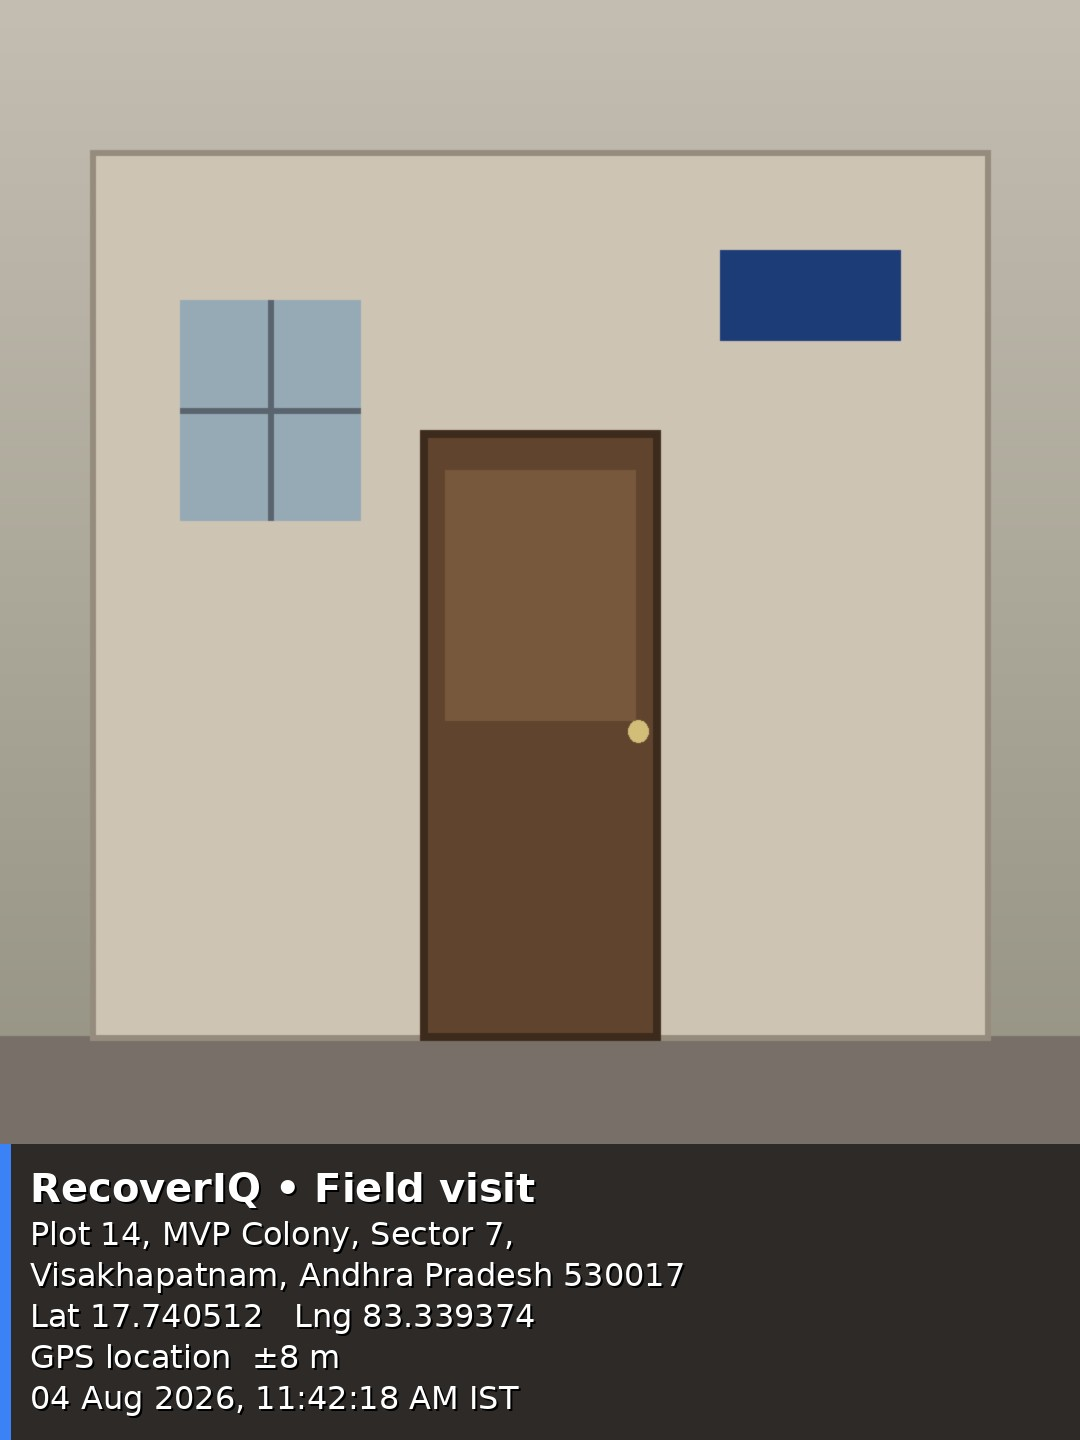
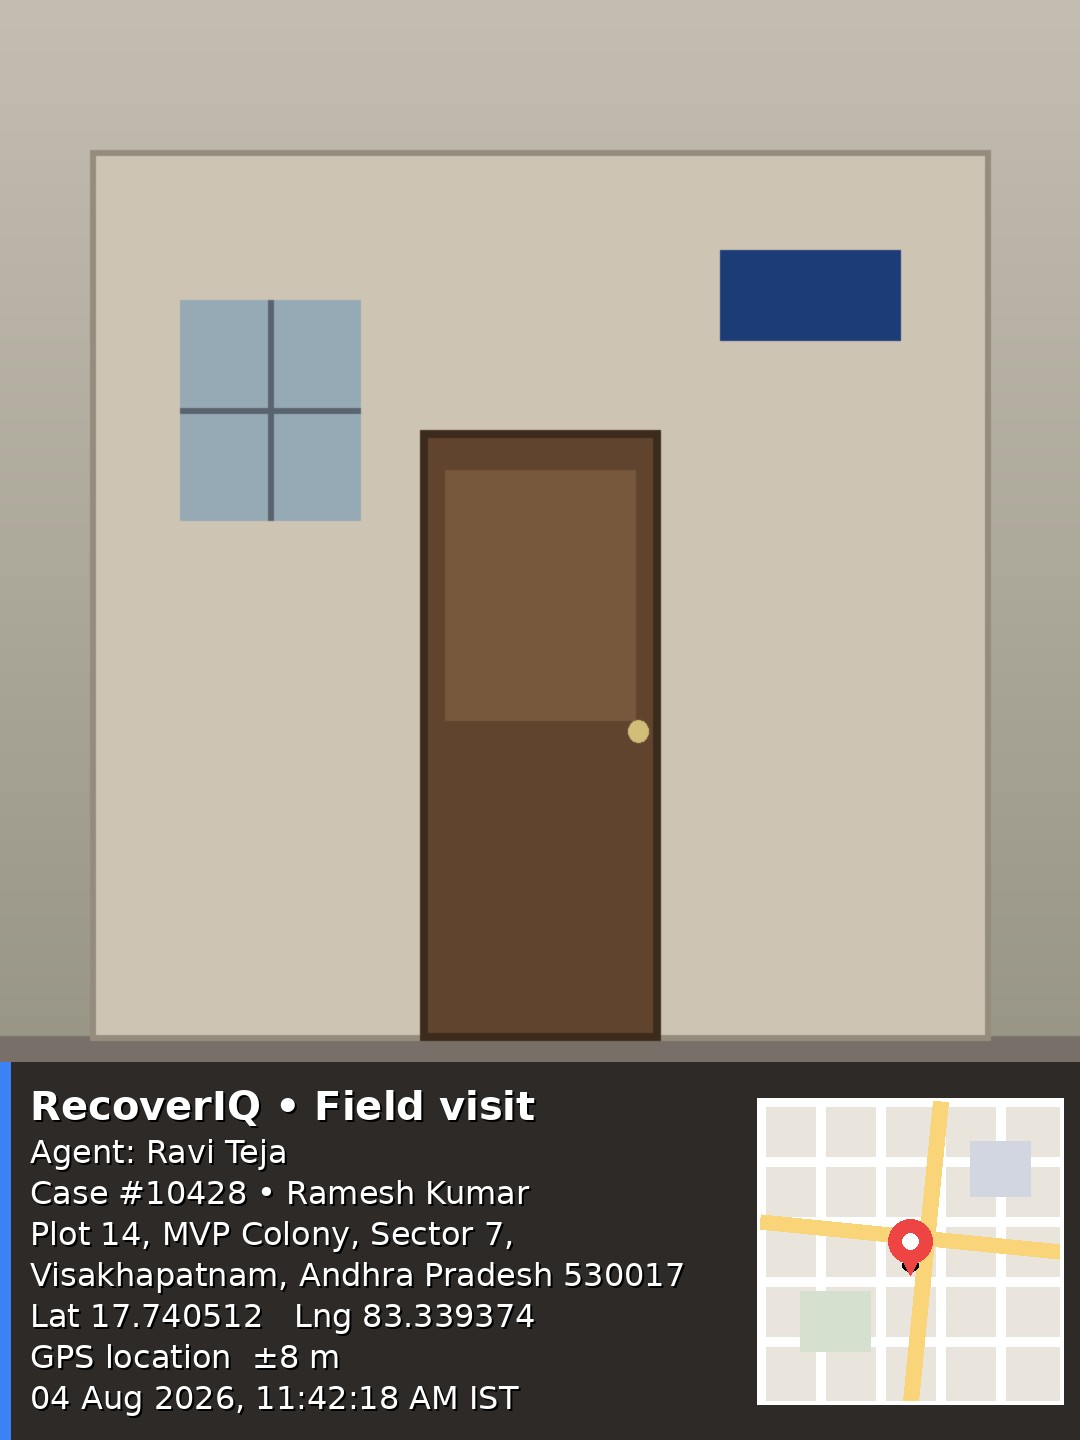
gps map cam

Changed region(s): [[0.0, 0.7188, 1.0, 1.0]]

diff --git a/android-native/app/src/main/java/in/recoveriq/app/ui/detail/VisitDialog.kt b/android-native/app/src/main/java/in/recoveriq/app/ui/detail/VisitDialog.kt
@@ -52,12 +52,15 @@ import `in`.recoveriq.app.ui.theme.Muted
 import kotlinx.coroutines.Dispatchers
 import kotlinx.coroutines.launch
 import kotlinx.coroutines.withContext
+import okhttp3.OkHttpClient
+import okhttp3.Request
 import java.io.ByteArrayOutputStream
 import java.io.File
 import java.text.SimpleDateFormat
 import java.util.Date
 import java.util.Locale
 import java.util.TimeZone
+import java.util.concurrent.TimeUnit
 
 /** Result payload the caller uploads via Repository.createVisit(...). */
 data class VisitDraft(
@@ -84,6 +87,38 @@ private fun decodeSampled(file: File, maxPx: Int): Bitmap? {
     val opts = BitmapFactory.Options().apply { inSampleSize = sample }
     return BitmapFactory.decodeFile(file.absolutePath, opts)
 }
+
+/**
+ * Fetch a small OpenStreetMap tile centred on the fix and drop a red pin at the exact
+ * position — this is the little map thumbnail the GPS Map Camera app shows.
+ */
+private fun fetchMapThumb(lat: Double, lng: Double): Bitmap? = runCatching {
+    val z = 16
+    val n = Math.pow(2.0, z.toDouble())
+    val xf = (lng + 180.0) / 360.0 * n
+    val latRad = Math.toRadians(lat)
+    val yf = (1.0 - Math.log(Math.tan(latRad) + 1.0 / Math.cos(latRad)) / Math.PI) / 2.0 * n
+    val xt = Math.floor(xf).toInt()
+    val yt = Math.floor(yf).toInt()
+    val url = "https://tile.openstreetmap.org/$z/$xt/$yt.png"
+    val client = OkHttpClient.Builder().callTimeout(6, TimeUnit.SECONDS).build()
+    val req = Request.Builder().url(url)
+        .header("User-Agent", "RecoverIQ-Android/1.0 (field-visit geotag)").build()
+    client.newCall(req).execute().use { resp ->
+        if (!resp.isSuccessful) return@runCatching null
+        val bytes = resp.body?.bytes() ?: return@runCatching null
+        val tile = BitmapFactory.decodeByteArray(bytes, 0, bytes.size) ?: return@runCatching null
+        val out = tile.copy(Bitmap.Config.ARGB_8888, true)
+        val cv = Canvas(out)
+        val px = ((xf - xt) * out.width).toFloat()
+        val py = ((yf - yt) * out.height).toFloat()
+        val r = out.width * 0.07f
+        cv.drawCircle(px, py + r, r, Paint(Paint.ANTI_ALIAS_FLAG).apply { color = Color.argb(70, 0, 0, 0) }) // shadow
+        cv.drawCircle(px, py, r, Paint(Paint.ANTI_ALIAS_FLAG).apply { color = Color.parseColor("#EF4444") })
+        cv.drawCircle(px, py, r * 0.38f, Paint(Paint.ANTI_ALIAS_FLAG).apply { color = Color.WHITE })
+        out
+    }
+}.getOrNull()
 
 /** Cameras often store the photo sideways with an EXIF rotation flag — apply it. */
 private fun applyExifRotation(file: File, bmp: Bitmap): Bitmap {
@@ -132,7 +167,10 @@ private fun wrap(paint: Paint, text: String, maxWidth: Float, maxLines: Int): Li
 }
 
 /** Draw the translucent geo-stamp banner across the bottom of the photo. */
-private fun stampPhoto(src: Bitmap, lat: Double?, lng: Double?, acc: Double?, address: String?): Bitmap {
+private fun stampPhoto(
+    src: Bitmap, lat: Double?, lng: Double?, acc: Double?, address: String?,
+    agentName: String?, caseLabel: String?, mapThumb: Bitmap?,
+): Bitmap {
     val bmp = if (src.isMutable) src else src.copy(Bitmap.Config.ARGB_8888, true)
     val c = Canvas(bmp)
     val w = bmp.width.toFloat()
@@ -141,29 +179,16 @@ private fun stampPhoto(src: Bitmap, lat: Double?, lng: Double?, acc: Double?, ad
     val pad = 20f * scale
     val big = 40f * scale
     val small = 32f * scale
+    val edge = 10f * scale
 
     val timeFmt = SimpleDateFormat("dd MMM yyyy, hh:mm:ss a", Locale.ENGLISH)
         .apply { timeZone = TimeZone.getTimeZone("Asia/Kolkata") }
     val stamp = "${timeFmt.format(Date())} IST"
 
-    // Build the lines from whatever data is available.
-    val body = ArrayList<String>()
-    val addr = address?.trim().orEmpty()
     val paintBody = Paint(Paint.ANTI_ALIAS_FLAG).apply {
         color = Color.WHITE; textSize = small; typeface = Typeface.DEFAULT
         setShadowLayer(4f * scale, 0f, 0f, Color.BLACK)
     }
-    val textW = w - pad * 2 - 10f * scale
-    if (addr.isNotEmpty()) body.addAll(wrap(paintBody, addr, textW, 2))
-    if (lat != null && lng != null) {
-        body.add("Lat ${"%.6f".format(lat)}   Lng ${"%.6f".format(lng)}")
-        val a = acc?.let { "  ±${it.toInt()} m" } ?: ""
-        body.add("GPS location$a")
-    } else {
-        body.add("Location unavailable")
-    }
-    body.add(stamp)
-
     val titlePaint = Paint(Paint.ANTI_ALIAS_FLAG).apply {
         color = Color.WHITE; textSize = big
         typeface = Typeface.create(Typeface.DEFAULT, Typeface.BOLD)
@@ -171,20 +196,51 @@ private fun stampPhoto(src: Bitmap, lat: Double?, lng: Double?, acc: Double?, ad
     }
     val title = "RecoverIQ • Field visit"
 
+    // Reserve a square on the right for the map thumbnail (if we fetched one).
+    val mapSize = if (mapThumb != null) 300f * scale else 0f
+    val mapGap = if (mapThumb != null) pad else 0f
+    val textW = w - pad * 2 - edge - mapSize - mapGap
+
+    // Build the lines from whatever data is available.
+    val body = ArrayList<String>()
+    agentName?.takeIf { it.isNotBlank() }?.let { body.addAll(wrap(paintBody, "Agent: $it", textW, 1)) }
+    caseLabel?.takeIf { it.isNotBlank() }?.let { body.addAll(wrap(paintBody, it, textW, 1)) }
+    address?.trim()?.takeIf { it.isNotEmpty() }?.let { body.addAll(wrap(paintBody, it, textW, 2)) }
+    if (lat != null && lng != null) {
+        body.add("Lat ${"%.6f".format(lat)}   Lng ${"%.6f".format(lng)}")
+        body.add("GPS location" + (acc?.let { "  ±${it.toInt()} m" } ?: ""))
+    } else {
+        body.add("Location unavailable")
+    }
+    body.add(stamp)
+
     val lineGap = 1.28f
-    val panelH = pad * 2 + big * lineGap + small * lineGap * body.size
+    val textBlockH = pad * 2 + big * lineGap + small * lineGap * body.size
+    // Grow the panel so the map thumbnail always fits inside it.
+    val panelH = maxOf(textBlockH, mapSize + pad * 2)
     val top = h - panelH
 
     // Dark scrim + blue accent edge.
     c.drawRect(0f, top, w, h, Paint().apply { color = Color.argb(160, 0, 0, 0) })
-    c.drawRect(0f, top, 10f * scale, h, Paint().apply { color = Color.parseColor("#3B82F6") })
+    c.drawRect(0f, top, edge, h, Paint().apply { color = Color.parseColor("#3B82F6") })
+
+    // Map thumbnail on the right, vertically centred, with a white frame.
+    if (mapThumb != null) {
+        val mx = w - pad - mapSize
+        val my = top + (panelH - mapSize) / 2f
+        val frame = 3f * scale
+        c.drawRect(mx - frame, my - frame, mx + mapSize + frame, my + mapSize + frame,
+            Paint(Paint.ANTI_ALIAS_FLAG).apply { color = Color.WHITE })
+        val scaled = Bitmap.createScaledBitmap(mapThumb, mapSize.toInt(), mapSize.toInt(), true)
+        c.drawBitmap(scaled, mx, my, null)
+    }
 
     var y = top + pad + big
-    c.drawText(title, pad + 10f * scale, y, titlePaint)
+    c.drawText(title, pad + edge, y, titlePaint)
     y += big * (lineGap - 1f)
     for (ln in body) {
         y += small * lineGap
-        c.drawText(ln, pad + 10f * scale, y, paintBody)
+        c.drawText(ln, pad + edge, y, paintBody)
     }
     return bmp
 }
@@ -192,7 +248,13 @@ private fun stampPhoto(src: Bitmap, lat: Double?, lng: Double?, acc: Double?, ad
 @OptIn(ExperimentalLayoutApi::class)
 @SuppressLint("MissingPermission")
 @Composable
-fun LogVisitDialog(isCreditCard: Boolean, onDismiss: () -> Unit, onConfirm: (VisitDraft) -> Unit) {
+fun LogVisitDialog(
+    isCreditCard: Boolean,
+    agentName: String? = null,
+    caseLabel: String? = null,
+    onDismiss: () -> Unit,
+    onConfirm: (VisitDraft) -> Unit,
+) {
     val context = LocalContext.current
     val scope = rememberCoroutineScope()
     val dispositions = listOf("Met customer", "Not available", "Paid", "Wrong address", "Person moved", "PTP")
@@ -209,6 +271,7 @@ fun LogVisitDialog(isCreditCard: Boolean, onDismiss: () -> Unit, onConfirm: (Vis
     var lng by remember { mutableStateOf<Double?>(null) }
     var acc by remember { mutableStateOf<Double?>(null) }
     var address by remember { mutableStateOf<String?>(null) }
+    var mapThumb by remember { mutableStateOf<Bitmap?>(null) }
 
     // A private cache file the camera writes the full-res photo into, shared via FileProvider.
     val photoFile = remember { File(context.cacheDir, "visit_${System.currentTimeMillis()}.jpg") }
@@ -239,6 +302,10 @@ fun LogVisitDialog(isCreditCard: Boolean, onDismiss: () -> Unit, onConfirm: (Vis
                             }.getOrNull()
                             if (!a.isNullOrBlank()) withContext(Dispatchers.Main) { address = a }
                         }
+                        scope.launch(Dispatchers.IO) {
+                            val m = fetchMapThumb(loc.latitude, loc.longitude)
+                            if (m != null) withContext(Dispatchers.Main) { mapThumb = m }
+                        }
                     }
                 }
         }
@@ -251,7 +318,8 @@ fun LogVisitDialog(isCreditCard: Boolean, onDismiss: () -> Unit, onConfirm: (Vis
                 val stamped = runCatching {
                     val raw = decodeSampled(photoFile, 1600) ?: return@runCatching null
                     val rotated = applyExifRotation(photoFile, raw)
-                    stampPhoto(rotated.copy(Bitmap.Config.ARGB_8888, true), lat, lng, acc, address)
+                    stampPhoto(rotated.copy(Bitmap.Config.ARGB_8888, true),
+                        lat, lng, acc, address, agentName, caseLabel, mapThumb)
                 }.getOrNull()
                 withContext(Dispatchers.Main) { if (stamped != null) photo = stamped; stamping = false }
             }

diff --git a/android-native/app/src/main/java/in/recoveriq/app/ui/detail/CaseDetailScreen.kt b/android-native/app/src/main/java/in/recoveriq/app/ui/detail/CaseDetailScreen.kt
@@ -147,6 +147,8 @@ fun CaseDetailScreen(vm: AuthViewModel, user: User, caseId: Int, onBack: () -> U
             if (showVisit) {
                 LogVisitDialog(
                     isCreditCard = isCC,
+                    agentName = user.name,
+                    caseLabel = "Case #${case.id}" + (case.customerName?.let { " • $it" } ?: ""),
                     onDismiss = { showVisit = false },
                     onConfirm = { v ->
                         scope.launch {
